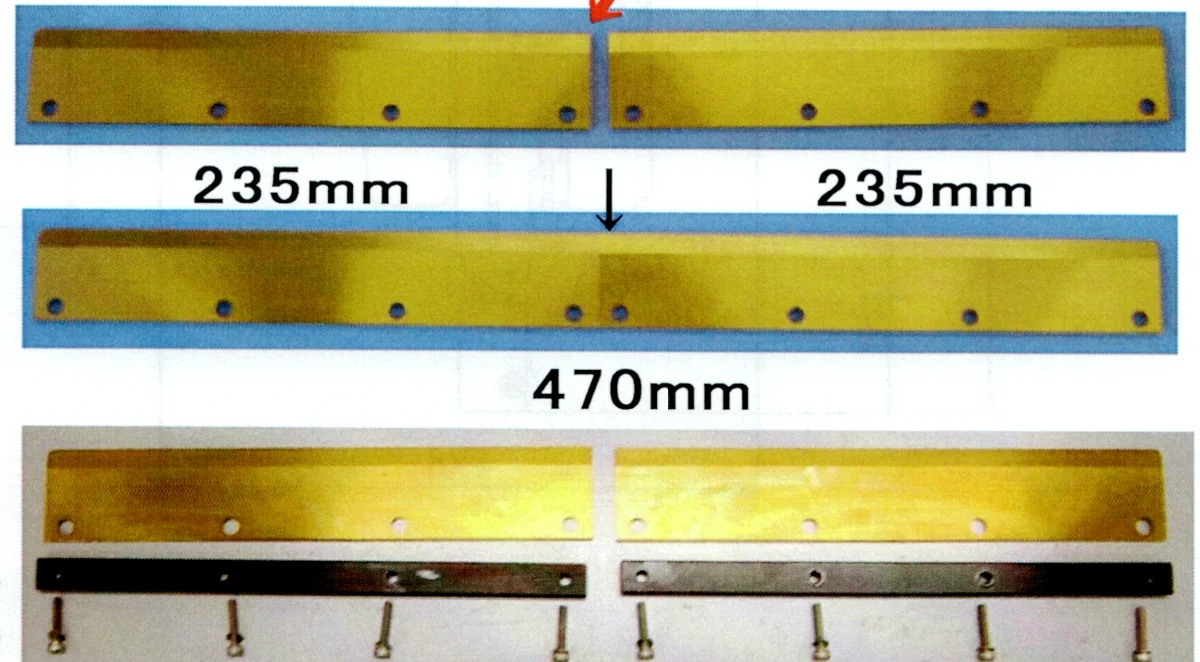
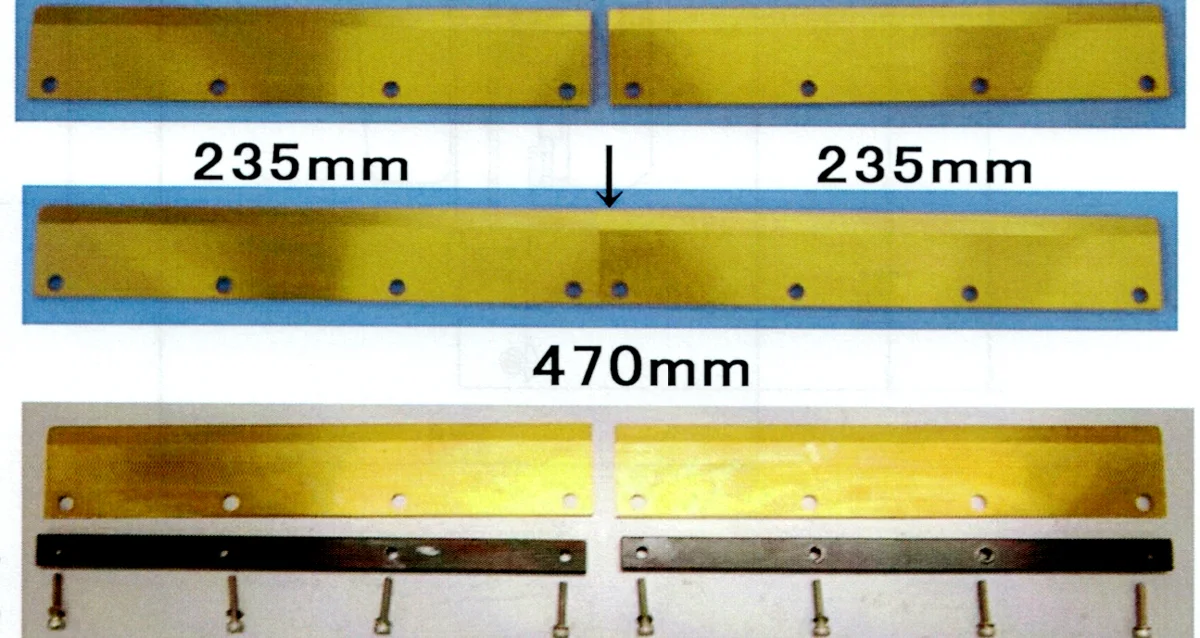
EM-2DF 中抜き図のラベル位置調整・EM460下刃写真のトリミング
Claude-Session: https://claude.ai/code/session_01LHPKKem9uMo18WqyhMpJ4j

diff --git a/products-disc.html b/products-disc.html
@@ -135,8 +135,10 @@
       <rect x="170" y="101" width="80" height="8" fill="#4caf50"/>
       <rect x="290" y="101" width="110" height="8" fill="#4caf50"/>
       <text x="345" y="92" text-anchor="middle" font-size="12" fill="#333">中抜き基板</text>
-      <line x1="140" y1="122" x2="170" y2="122" stroke="#c62828" stroke-width="1.5"/>
-      <text x="155" y="140" text-anchor="middle" font-size="11" fill="#c62828">中抜き 6mm以上</text>
+      <line x1="140" y1="118" x2="170" y2="118" stroke="#c62828" stroke-width="1.5"/>
+      <line x1="140" y1="113" x2="140" y2="123" stroke="#c62828" stroke-width="1.5"/>
+      <line x1="170" y1="113" x2="170" y2="123" stroke="#c62828" stroke-width="1.5"/>
+      <text x="80" y="140" text-anchor="middle" font-size="11" fill="#c62828">中抜き 6mm以上で刃が落ち込む</text>
     </svg>
     <p class="crk-p">中抜き基板では、中抜きの長さが長いと上刃が抜いた部分に落ち込み、基板が刃からそれるおそれがあります。中抜きの距離が 6mm 以上あると刃が落ち込んで止まってしまう場合があるため、中抜きの多い基板には不向きです。</p>
   </div>
